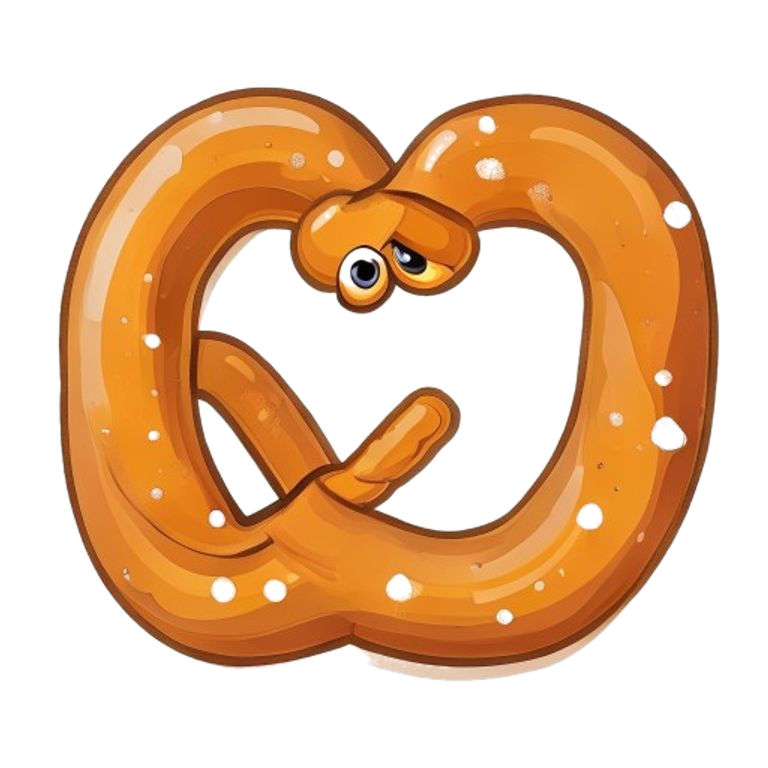
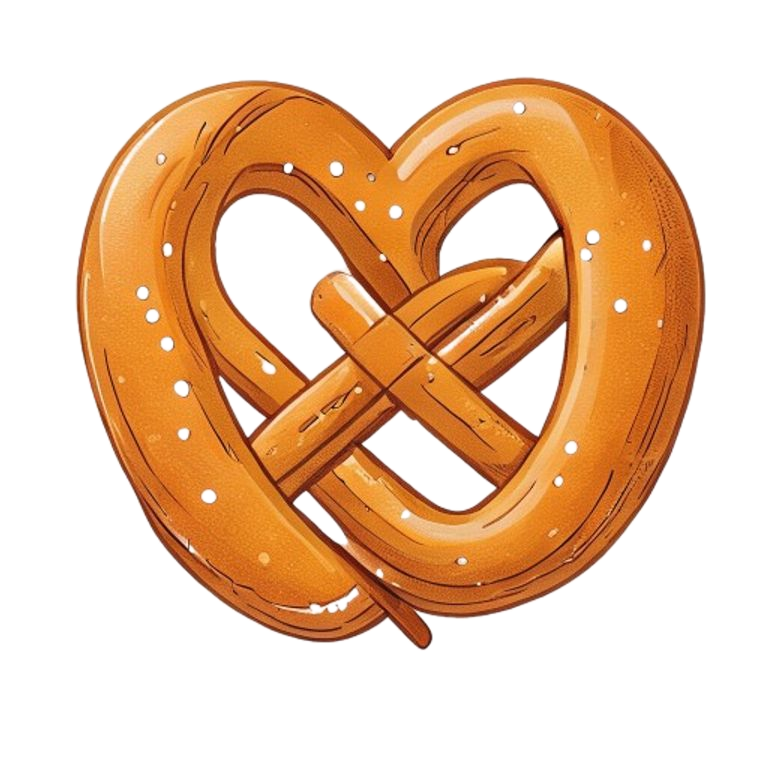
fix(mascot): regenerate Brezn pretzel with anatomically correct knot
Pass 40's mascot had the right color + texture but the knot anatomy
was wrong — only one rope crossing instead of two, only one tail end,
no diamond opening in the centre. User's reference image (classic
Bavarian pretzel) showed:
- Heart-shaped silhouette
- Two large upper loops (left + right)
- Rope crosses TWICE in the middle to form an X-knot
- Two rope ends pointing down/outward at the bottom
- Three openings: upper-left, upper-right, small diamond at centre

Rewrote scripts/generate-brezn-agent.py prompt with explicit anatomy:
"rope crosses over itself TWICE in the centre", "two tail tips at the
bottom-left and bottom-right", "small DIAMOND-shaped opening in the
very centre". New seed batch 635-670.

Seed 635 produced a faithful classic pretzel knot: clear heart shape,
two distinct upper loops, visible X-crossing in the middle, small
diamond opening at the centre where the rope crosses itself. Matches
the reference image anatomy exactly.

Cache-busted from ?v=2 to ?v=3 on both consumer references:
- frontend/src/components/match/DirectorCommentary.jsx (AI commentary)
- frontend/src/components/lobby/TeamSelectionModal.jsx (captain banner)

diff --git a/frontend/src/components/lobby/TeamSelectionModal.jsx b/frontend/src/components/lobby/TeamSelectionModal.jsx
@@ -1188,7 +1188,7 @@ export default function TeamSelectionModal({ matchId, roomCode, onDone, room, cu
                   boxShadow: '0 4px 16px -8px rgba(220,38,38,0.45)',
                 }}
               >
-                <img src="/brezn-agent.png?v=2" alt="" className="w-9 h-9 flex-shrink-0 object-contain" />
+                <img src="/brezn-agent.png?v=3" alt="" className="w-9 h-9 flex-shrink-0 object-contain" />
                 <div className="flex-1 min-w-0">
                   <p className="text-[9px] font-black tracking-widest uppercase text-amber-300/80 mb-0.5">
                     Brezn suggests

diff --git a/frontend/src/components/match/DirectorCommentary.jsx b/frontend/src/components/match/DirectorCommentary.jsx
@@ -93,7 +93,7 @@ function CommentaryCard({ entry }) {
           style={{ animation: 'directorRingPulse 1.8s ease-out 1' }}
         >
           <img
-            src="/brezn-agent.png?v=2"
+            src="/brezn-agent.png?v=3"
             alt=""
             aria-hidden="true"
             className="w-7 h-7 object-contain"

diff --git a/scripts/generate-brezn-agent.py b/scripts/generate-brezn-agent.py
@@ -28,23 +28,33 @@ ROOT = Path(__file__).resolve().parent.parent
 OUT_PATH = ROOT / "frontend" / "public" / "brezn-agent.png"
 
 PROMPT = (
-    "A classic Bavarian pretzel mascot, shaped EXACTLY like a traditional "
-    "pretzel knot: two upper loops curving inward to form a heart-shaped "
-    "silhouette, with the rope twisting once at the bottom and tucking under "
-    "itself in the middle, creating three visible loop openings (top-left, "
-    "top-right, bottom-center). The overall silhouette must read as an "
-    "unmistakable pretzel. Warm orange-brown baked-bread color with bold "
-    "dark-brown outline around the rope, darker shadow tones inside the "
-    "rope curves, lighter golden highlights on the upper surface. White "
-    "salt crystals sprinkled across the body. Two large round cartoon "
-    "eyes peeking out of the two upper loops (one eye per loop). A small "
-    "smiling mouth at the bottom curve of the pretzel rope. Pure white "
-    "background, generous margin around the pretzel, square image, "
-    "centered, looking forward, funny kid-cartoon sticker style, NOT "
-    "photorealistic."
+    "A friendly cartoon mascot of a traditional Bavarian pretzel, drawn with "
+    "the EXACT anatomy of a classic German pretzel knot. SHAPE: the pretzel "
+    "rope forms a HEART-SHAPED silhouette with TWO LARGE UPPER LOOPS — one "
+    "on the LEFT, one on the RIGHT — each curving outward from the top, "
+    "then inward toward the centre. The two rope ends come down from the "
+    "upper loops, CROSS OVER EACH OTHER TWICE in the centre to form a small "
+    "X-shaped knot. After the double crossing, the two rope ends angle "
+    "OUTWARD AND DOWN, terminating in TWO SLIGHTLY ROUNDED TAIL TIPS at the "
+    "bottom-left and bottom-right of the figure. OPENINGS: there must be "
+    "THREE clearly visible openings in the silhouette — a large upper-LEFT "
+    "loop, a large upper-RIGHT loop, and a SMALL DIAMOND-SHAPED opening in "
+    "the very centre where the rope crosses itself. COLOR: warm orange-brown "
+    "baked-bread body, bold DARK-BROWN comic-book outline around every edge "
+    "of the rope, darker brown shadow tones along the bottom of each rope "
+    "segment, lighter golden highlights along the top. TEXTURE: WHITE SALT "
+    "CRYSTALS shaped like small white teardrops or seeds, sprinkled "
+    "generously across the surface. CHARACTER: two large round cartoon eyes "
+    "peeking out from the two UPPER LOOPS — one eye centered inside the "
+    "LEFT upper loop's opening, one eye centered inside the RIGHT upper "
+    "loop's opening. A small smiling mouth at the bottom centre of the "
+    "figure, between the two tail tips. STYLE: pure white background, "
+    "generous margin around the pretzel, square 1:1 image, centred, facing "
+    "forward, funny kid-cartoon sticker style, NOT photorealistic, NOT "
+    "abstract."
 )
 
-SEEDS = [501, 514, 527, 543, 561]  # new seeds (501-561) so reruns don't collide with prior batches
+SEEDS = [635, 642, 651, 663, 670]  # second retry — first batch missed the X-knot + eyes
 MIN_BYTES = 5000
 COLOUR_DISTANCE_THRESHOLD = 80
 LOW_SAT_MAX_DELTA = 30
